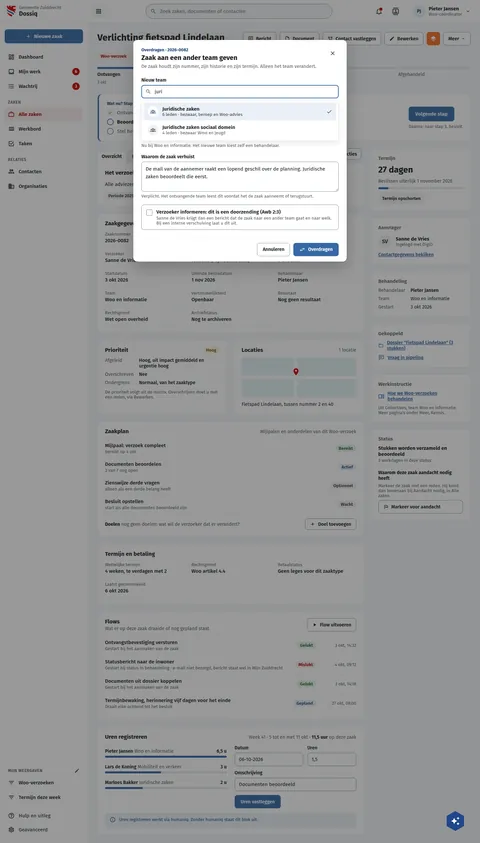
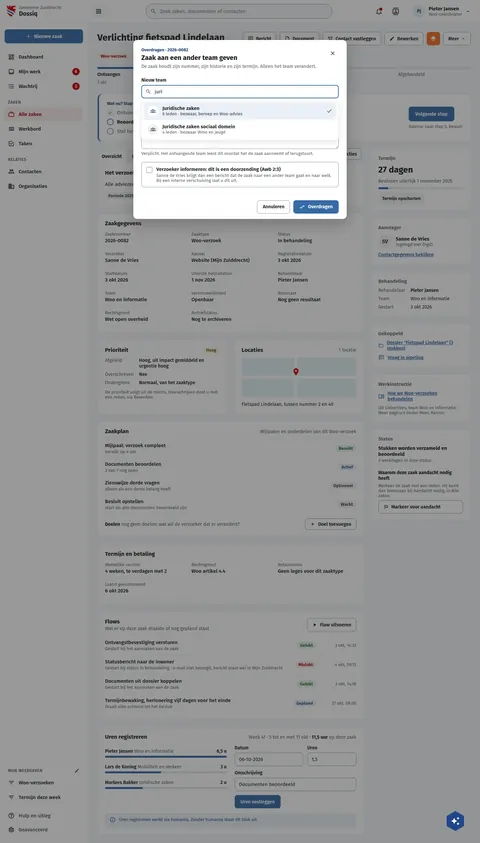
fix(screens): DqOverdragen's open team list lies over the form
The board drew the open "Nieuw team" list in the form's flow, pushing
the reason field and the toggle card down by its height. A combobox's
list lies over what is under it, as live draws it; the list now does
on the board too.

Assisted-by: ClaudeCode:claude-opus-5-5

Changed region(s): [[0.25, 0.1234, 0.75, 0.3393]]

diff --git a/preview/screens/boards/DqOverdragen.html b/preview/screens/boards/DqOverdragen.html
@@ -325,11 +325,10 @@ a{color:var(--sc-primary, #3669a5)}a:hover{color:var(--sc-primary-deep, #234a78)
       <form style="display: flex; flex-direction: column; gap: 18px; padding: 18px 24px 22px">
         <div style="display: flex; flex-direction: column; gap: 6px">
           <label for="ov-team" style="font-size: 14px; font-weight: 600">Nieuw team</label>
-          <span style="position: relative; display: block"><svg width="18" height="18" viewbox="0 0 24 24" fill="#5e6168" style="position: absolute; left: 12px; top: 11px;fill:var(--sc-work-muted, #5e6168)" aria-hidden="true"><path d="M9.5,3A6.5,6.5 0 0,1 16,9.5C16,11.11 15.41,12.59 14.44,13.73L14.71,14H15.5L20.5,19L19,20.5L14,15.5V14.71L13.73,14.44C12.59,15.41 11.11,16 9.5,16A6.5,6.5 0 0,1 3,9.5A6.5,6.5 0 0,1 9.5,3M9.5,5C7,5 5,7 5,9.5C5,12 7,14 9.5,14C12,14 14,12 14,9.5C14,7 12,5 9.5,5Z"></path></svg><input id="ov-team" type="text" role="combobox" aria-expanded="true" aria-controls="ov-teams" value="juri" required style="box-sizing: border-box; width: 100%; height: 40px; padding: 0 12px 0 38px; border: 2px solid var(--sc-primary, #3669a5); border-radius: 8px; background: #ffffff; font: 400 15px var(--sc-font, 'Fira Sans'), sans-serif; color: var(--sc-work-ink, #1b1c1d)"></span>
-          <ul id="ov-teams" role="listbox" aria-label="Teams" style="margin: 0; padding: 6px; list-style: none; border: 1px solid var(--sc-work-line, #e4e6ea); border-radius: 8px; box-shadow: 0 6px 18px rgba(27,28,29,0.10); display: flex; flex-direction: column; gap: 2px">
+          <span style="position: relative; display: block"><svg width="18" height="18" viewbox="0 0 24 24" fill="#5e6168" style="position: absolute; left: 12px; top: 11px;fill:var(--sc-work-muted, #5e6168)" aria-hidden="true"><path d="M9.5,3A6.5,6.5 0 0,1 16,9.5C16,11.11 15.41,12.59 14.44,13.73L14.71,14H15.5L20.5,19L19,20.5L14,15.5V14.71L13.73,14.44C12.59,15.41 11.11,16 9.5,16A6.5,6.5 0 0,1 3,9.5A6.5,6.5 0 0,1 9.5,3M9.5,5C7,5 5,7 5,9.5C5,12 7,14 9.5,14C12,14 14,12 14,9.5C14,7 12,5 9.5,5Z"></path></svg><input id="ov-team" type="text" role="combobox" aria-expanded="true" aria-controls="ov-teams" value="juri" required style="box-sizing: border-box; width: 100%; height: 40px; padding: 0 12px 0 38px; border: 2px solid var(--sc-primary, #3669a5); border-radius: 8px; background: #ffffff; font: 400 15px var(--sc-font, 'Fira Sans'), sans-serif; color: var(--sc-work-ink, #1b1c1d)"><ul id="ov-teams" role="listbox" aria-label="Teams" style="position: absolute; top: 100%; left: 0; right: 0; z-index: 2; margin: 4px 0 0; padding: 6px; background: #ffffff; list-style: none; border: 1px solid var(--sc-work-line, #e4e6ea); border-radius: 8px; box-shadow: 0 6px 18px rgba(27,28,29,0.10); display: flex; flex-direction: column; gap: 2px">
             <li role="option" aria-selected="true" style="display: flex; align-items: center; gap: 12px; padding: 10px 12px; border-radius: 6px; background: var(--sc-primary-light, #eaf0f7)"><span style="width: 32px; height: 32px; flex: none; border-radius: 16px; background: #ffffff; color: var(--sc-primary-deep, #234a78); display: flex; align-items: center; justify-content: center"><svg width="18" height="18" viewbox="0 0 24 24" fill="currentColor" aria-hidden="true"><path d="M12,5A3.5,3.5 0 0,0 8.5,8.5A3.5,3.5 0 0,0 12,12A3.5,3.5 0 0,0 15.5,8.5A3.5,3.5 0 0,0 12,5M12,7A1.5,1.5 0 0,1 13.5,8.5A1.5,1.5 0 0,1 12,10A1.5,1.5 0 0,1 10.5,8.5A1.5,1.5 0 0,1 12,7M5.5,8A2.5,2.5 0 0,0 3,10.5C3,11.44 3.53,12.25 4.29,12.68C4.65,12.88 5.06,13 5.5,13C5.94,13 6.35,12.88 6.71,12.68C7.08,12.47 7.39,12.17 7.62,11.81C6.89,10.86 6.5,9.7 6.5,8.5C6.5,8.41 6.5,8.31 6.5,8.22C6.2,8.08 5.86,8 5.5,8M18.5,8C18.14,8 17.8,8.08 17.5,8.22C17.5,8.31 17.5,8.41 17.5,8.5C17.5,9.7 17.11,10.86 16.38,11.81C16.5,12 16.63,12.15 16.78,12.3C16.94,12.45 17.1,12.58 17.29,12.68C17.65,12.88 18.06,13 18.5,13C18.94,13 19.35,12.88 19.71,12.68C20.47,12.25 21,11.44 21,10.5A2.5,2.5 0 0,0 18.5,8M12,14C9.66,14 5,15.17 5,17.5V19H19V17.5C19,15.17 14.34,14 12,14M4.71,14.55C2.78,14.78 0,15.76 0,17.5V19H3V17.07C3,16.06 3.69,15.22 4.71,14.55M19.29,14.55C20.31,15.22 21,16.06 21,17.07V19H24V17.5C24,15.76 21.22,14.78 19.29,14.55M12,16C13.53,16 15.24,16.5 16.23,17H7.77C8.76,16.5 10.47,16 12,16Z"></path></svg></span><span style="flex: 1; display: flex; flex-direction: column"><strong style="font-size: 15px; font-weight: 600">Juridische zaken</strong><span style="font-size: 13px; color: var(--sc-work-text, #3d4047)">6 leden · bezwaar, beroep en Woo-advies</span></span><svg width="18" height="18" viewbox="0 0 24 24" fill="#234a78" aria-hidden="true" style="fill:var(--sc-primary-deep, #234a78)"><path d="M21,7L9,19L3.5,13.5L4.91,12.09L9,16.17L19.59,5.59L21,7Z"></path></svg></li>
             <li role="option" aria-selected="false" style="display: flex; align-items: center; gap: 12px; padding: 10px 12px; border-radius: 6px"><span style="width: 32px; height: 32px; flex: none; border-radius: 16px; background: var(--sc-work-chip, #f0f1f3); color: var(--sc-work-text, #3d4047); display: flex; align-items: center; justify-content: center"><svg width="18" height="18" viewbox="0 0 24 24" fill="currentColor" aria-hidden="true"><path d="M12,5A3.5,3.5 0 0,0 8.5,8.5A3.5,3.5 0 0,0 12,12A3.5,3.5 0 0,0 15.5,8.5A3.5,3.5 0 0,0 12,5M12,7A1.5,1.5 0 0,1 13.5,8.5A1.5,1.5 0 0,1 12,10A1.5,1.5 0 0,1 10.5,8.5A1.5,1.5 0 0,1 12,7M5.5,8A2.5,2.5 0 0,0 3,10.5C3,11.44 3.53,12.25 4.29,12.68C4.65,12.88 5.06,13 5.5,13C5.94,13 6.35,12.88 6.71,12.68C7.08,12.47 7.39,12.17 7.62,11.81C6.89,10.86 6.5,9.7 6.5,8.5C6.5,8.41 6.5,8.31 6.5,8.22C6.2,8.08 5.86,8 5.5,8M18.5,8C18.14,8 17.8,8.08 17.5,8.22C17.5,8.31 17.5,8.41 17.5,8.5C17.5,9.7 17.11,10.86 16.38,11.81C16.5,12 16.63,12.15 16.78,12.3C16.94,12.45 17.1,12.58 17.29,12.68C17.65,12.88 18.06,13 18.5,13C18.94,13 19.35,12.88 19.71,12.68C20.47,12.25 21,11.44 21,10.5A2.5,2.5 0 0,0 18.5,8M12,14C9.66,14 5,15.17 5,17.5V19H19V17.5C19,15.17 14.34,14 12,14M4.71,14.55C2.78,14.78 0,15.76 0,17.5V19H3V17.07C3,16.06 3.69,15.22 4.71,14.55M19.29,14.55C20.31,15.22 21,16.06 21,17.07V19H24V17.5C24,15.76 21.22,14.78 19.29,14.55M12,16C13.53,16 15.24,16.5 16.23,17H7.77C8.76,16.5 10.47,16 12,16Z"></path></svg></span><span style="flex: 1; display: flex; flex-direction: column"><strong style="font-size: 15px; font-weight: 600">Juridische zaken sociaal domein</strong><span style="font-size: 13px; color: var(--sc-work-muted, #5e6168)">4 leden · bezwaar Wmo en jeugd</span></span></li>
-          </ul>
+          </ul></span>
           <span style="font-size: 13px; color: var(--sc-work-muted, #5e6168)">Nu bij Woo en informatie. Het nieuwe team kiest zelf een behandelaar.</span>
         </div>
         <div style="display: flex; flex-direction: column; gap: 6px"><label for="ov-reden" style="font-size: 14px; font-weight: 600">Waarom de zaak verhuist</label><textarea id="ov-reden" rows="3" required style="box-sizing: border-box; width: 100%; padding: 10px 12px; border: 1px solid var(--sc-work-field, #828a95); border-radius: 8px; font: 400 15px var(--sc-font, 'Fira Sans'), sans-serif; color: var(--sc-work-ink, #1b1c1d); line-height: 1.5; resize: vertical">De mail van de aannemer raakt een lopend geschil over de planning. Juridische zaken beoordeelt die eerst.</textarea><span style="font-size: 13px; color: var(--sc-work-muted, #5e6168)">Verplicht. Het ontvangende team leest dit voordat het de zaak aanneemt of terugstuurt.</span></div>

diff --git a/screens-src/zuiddrecht/DqOverdragen.dc.html b/screens-src/zuiddrecht/DqOverdragen.dc.html
@@ -175,11 +175,10 @@ a{color:#3669a5}a:hover{color:#234a78}
       <form style="display: flex; flex-direction: column; gap: 18px; padding: 18px 24px 22px">
         <div style="display: flex; flex-direction: column; gap: 6px">
           <label for="ov-team" style="font-size: 14px; font-weight: 600">Nieuw team</label>
-          <span style="position: relative; display: block"><svg width="18" height="18" viewBox="0 0 24 24" fill="#5e6168" style="position: absolute; left: 12px; top: 11px" aria-hidden="true"><path d="M9.5,3A6.5,6.5 0 0,1 16,9.5C16,11.11 15.41,12.59 14.44,13.73L14.71,14H15.5L20.5,19L19,20.5L14,15.5V14.71L13.73,14.44C12.59,15.41 11.11,16 9.5,16A6.5,6.5 0 0,1 3,9.5A6.5,6.5 0 0,1 9.5,3M9.5,5C7,5 5,7 5,9.5C5,12 7,14 9.5,14C12,14 14,12 14,9.5C14,7 12,5 9.5,5Z"></path></svg><input id="ov-team" type="text" role="combobox" aria-expanded="true" aria-controls="ov-teams" value="juri" required style="box-sizing: border-box; width: 100%; height: 40px; padding: 0 12px 0 38px; border: 2px solid #3669a5; border-radius: 8px; background: #ffffff; font: 400 15px 'Fira Sans', sans-serif; color: #1b1c1d"></span>
-          <ul id="ov-teams" role="listbox" aria-label="Teams" style="margin: 0; padding: 6px; list-style: none; border: 1px solid #e4e6ea; border-radius: 8px; box-shadow: 0 6px 18px rgba(27,28,29,0.10); display: flex; flex-direction: column; gap: 2px">
+          <span style="position: relative; display: block"><svg width="18" height="18" viewBox="0 0 24 24" fill="#5e6168" style="position: absolute; left: 12px; top: 11px" aria-hidden="true"><path d="M9.5,3A6.5,6.5 0 0,1 16,9.5C16,11.11 15.41,12.59 14.44,13.73L14.71,14H15.5L20.5,19L19,20.5L14,15.5V14.71L13.73,14.44C12.59,15.41 11.11,16 9.5,16A6.5,6.5 0 0,1 3,9.5A6.5,6.5 0 0,1 9.5,3M9.5,5C7,5 5,7 5,9.5C5,12 7,14 9.5,14C12,14 14,12 14,9.5C14,7 12,5 9.5,5Z"></path></svg><input id="ov-team" type="text" role="combobox" aria-expanded="true" aria-controls="ov-teams" value="juri" required style="box-sizing: border-box; width: 100%; height: 40px; padding: 0 12px 0 38px; border: 2px solid #3669a5; border-radius: 8px; background: #ffffff; font: 400 15px 'Fira Sans', sans-serif; color: #1b1c1d"><ul id="ov-teams" role="listbox" aria-label="Teams" style="position: absolute; top: 100%; left: 0; right: 0; z-index: 2; margin: 4px 0 0; padding: 6px; background: #ffffff; list-style: none; border: 1px solid #e4e6ea; border-radius: 8px; box-shadow: 0 6px 18px rgba(27,28,29,0.10); display: flex; flex-direction: column; gap: 2px">
             <li role="option" aria-selected="true" style="display: flex; align-items: center; gap: 12px; padding: 10px 12px; border-radius: 6px; background: #eaf0f7"><span style="width: 32px; height: 32px; flex: none; border-radius: 16px; background: #ffffff; color: #234a78; display: flex; align-items: center; justify-content: center"><svg width="18" height="18" viewBox="0 0 24 24" fill="currentColor" aria-hidden="true"><path d="M12,5A3.5,3.5 0 0,0 8.5,8.5A3.5,3.5 0 0,0 12,12A3.5,3.5 0 0,0 15.5,8.5A3.5,3.5 0 0,0 12,5M12,7A1.5,1.5 0 0,1 13.5,8.5A1.5,1.5 0 0,1 12,10A1.5,1.5 0 0,1 10.5,8.5A1.5,1.5 0 0,1 12,7M5.5,8A2.5,2.5 0 0,0 3,10.5C3,11.44 3.53,12.25 4.29,12.68C4.65,12.88 5.06,13 5.5,13C5.94,13 6.35,12.88 6.71,12.68C7.08,12.47 7.39,12.17 7.62,11.81C6.89,10.86 6.5,9.7 6.5,8.5C6.5,8.41 6.5,8.31 6.5,8.22C6.2,8.08 5.86,8 5.5,8M18.5,8C18.14,8 17.8,8.08 17.5,8.22C17.5,8.31 17.5,8.41 17.5,8.5C17.5,9.7 17.11,10.86 16.38,11.81C16.5,12 16.63,12.15 16.78,12.3C16.94,12.45 17.1,12.58 17.29,12.68C17.65,12.88 18.06,13 18.5,13C18.94,13 19.35,12.88 19.71,12.68C20.47,12.25 21,11.44 21,10.5A2.5,2.5 0 0,0 18.5,8M12,14C9.66,14 5,15.17 5,17.5V19H19V17.5C19,15.17 14.34,14 12,14M4.71,14.55C2.78,14.78 0,15.76 0,17.5V19H3V17.07C3,16.06 3.69,15.22 4.71,14.55M19.29,14.55C20.31,15.22 21,16.06 21,17.07V19H24V17.5C24,15.76 21.22,14.78 19.29,14.55M12,16C13.53,16 15.24,16.5 16.23,17H7.77C8.76,16.5 10.47,16 12,16Z"></path></svg></span><span style="flex: 1; display: flex; flex-direction: column"><strong style="font-size: 15px; font-weight: 600">Juridische zaken</strong><span style="font-size: 13px; color: #3d4047">6 leden · bezwaar, beroep en Woo-advies</span></span><svg width="18" height="18" viewBox="0 0 24 24" fill="#234a78" aria-hidden="true"><path d="M21,7L9,19L3.5,13.5L4.91,12.09L9,16.17L19.59,5.59L21,7Z"></path></svg></li>
             <li role="option" aria-selected="false" style="display: flex; align-items: center; gap: 12px; padding: 10px 12px; border-radius: 6px"><span style="width: 32px; height: 32px; flex: none; border-radius: 16px; background: #f0f1f3; color: #3d4047; display: flex; align-items: center; justify-content: center"><svg width="18" height="18" viewBox="0 0 24 24" fill="currentColor" aria-hidden="true"><path d="M12,5A3.5,3.5 0 0,0 8.5,8.5A3.5,3.5 0 0,0 12,12A3.5,3.5 0 0,0 15.5,8.5A3.5,3.5 0 0,0 12,5M12,7A1.5,1.5 0 0,1 13.5,8.5A1.5,1.5 0 0,1 12,10A1.5,1.5 0 0,1 10.5,8.5A1.5,1.5 0 0,1 12,7M5.5,8A2.5,2.5 0 0,0 3,10.5C3,11.44 3.53,12.25 4.29,12.68C4.65,12.88 5.06,13 5.5,13C5.94,13 6.35,12.88 6.71,12.68C7.08,12.47 7.39,12.17 7.62,11.81C6.89,10.86 6.5,9.7 6.5,8.5C6.5,8.41 6.5,8.31 6.5,8.22C6.2,8.08 5.86,8 5.5,8M18.5,8C18.14,8 17.8,8.08 17.5,8.22C17.5,8.31 17.5,8.41 17.5,8.5C17.5,9.7 17.11,10.86 16.38,11.81C16.5,12 16.63,12.15 16.78,12.3C16.94,12.45 17.1,12.58 17.29,12.68C17.65,12.88 18.06,13 18.5,13C18.94,13 19.35,12.88 19.71,12.68C20.47,12.25 21,11.44 21,10.5A2.5,2.5 0 0,0 18.5,8M12,14C9.66,14 5,15.17 5,17.5V19H19V17.5C19,15.17 14.34,14 12,14M4.71,14.55C2.78,14.78 0,15.76 0,17.5V19H3V17.07C3,16.06 3.69,15.22 4.71,14.55M19.29,14.55C20.31,15.22 21,16.06 21,17.07V19H24V17.5C24,15.76 21.22,14.78 19.29,14.55M12,16C13.53,16 15.24,16.5 16.23,17H7.77C8.76,16.5 10.47,16 12,16Z"></path></svg></span><span style="flex: 1; display: flex; flex-direction: column"><strong style="font-size: 15px; font-weight: 600">Juridische zaken sociaal domein</strong><span style="font-size: 13px; color: #5e6168">4 leden · bezwaar Wmo en jeugd</span></span></li>
-          </ul>
+          </ul></span>
           <span style="font-size: 13px; color: #5e6168">Nu bij Woo en informatie. Het nieuwe team kiest zelf een behandelaar.</span>
         </div>
         <div style="display: flex; flex-direction: column; gap: 6px"><label for="ov-reden" style="font-size: 14px; font-weight: 600">Waarom de zaak verhuist</label><textarea id="ov-reden" rows="3" required style="box-sizing: border-box; width: 100%; padding: 10px 12px; border: 1px solid #828a95; border-radius: 8px; font: 400 15px 'Fira Sans', sans-serif; color: #1b1c1d; line-height: 1.5; resize: vertical">De mail van de aannemer raakt een lopend geschil over de planning. Juridische zaken beoordeelt die eerst.</textarea><span style="font-size: 13px; color: #5e6168">Verplicht. Het ontvangende team leest dit voordat het de zaak aanneemt of terugstuurt.</span></div>
